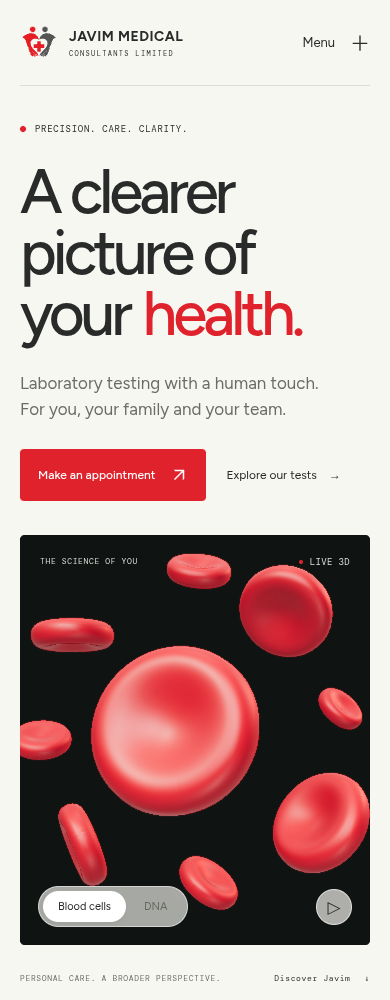
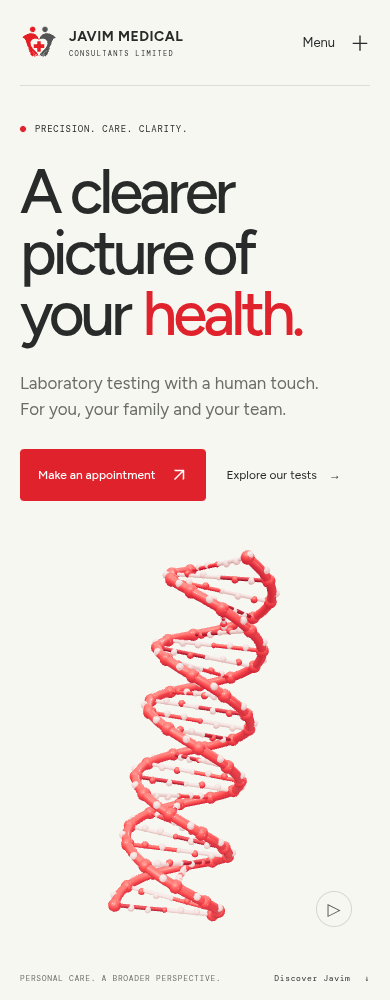
Refine landing DNA animation with transparent background

diff --git a/src/scene.js b/src/scene.js
@@ -1,111 +1,121 @@
 import * as THREE from 'three';
 import { OrbitControls } from 'three/addons/controls/OrbitControls.js';
-import { EffectComposer } from 'three/addons/postprocessing/EffectComposer.js';
-import { RenderPass } from 'three/addons/postprocessing/RenderPass.js';
-import { BokehPass } from 'three/addons/postprocessing/BokehPass.js';
-import { OutputPass } from 'three/addons/postprocessing/OutputPass.js';
 import { RoomEnvironment } from 'three/addons/environments/RoomEnvironment.js';
 
 export function mountScene(container) {
+  const fallback = () => {
+    container.querySelector('.scene-fallback').hidden = false;
+    container.querySelector('canvas')?.setAttribute('hidden', '');
+    document.querySelector('#motion-toggle').hidden = true;
+  };
   let renderer;
   try { renderer = new THREE.WebGLRenderer({antialias:true, alpha:true, powerPreference:'low-power'}); }
-  catch { document.querySelector('.scene-live').textContent='ILLUSTRATION';document.querySelector('.scene-hint').textContent='BLOOD CELL STUDY';document.querySelector('.scene-tabs').hidden=true;document.querySelector('#motion-toggle').hidden=true;return; }
-  container.querySelector('.scene-fallback').hidden=true;
-  renderer.setPixelRatio(Math.min(devicePixelRatio,innerWidth<760?1:1.35));
-  renderer.toneMapping=THREE.ACESFilmicToneMapping;
-  renderer.toneMappingExposure=.95;
-  renderer.setClearColor(0x000000,0);
+  catch { fallback(); return; }
+  renderer.setPixelRatio(Math.min(devicePixelRatio, innerWidth < 760 ? 1 : 1.5));
+  renderer.setClearColor(0xffffff, 0);
+  renderer.toneMapping = THREE.ACESFilmicToneMapping;
+  renderer.toneMappingExposure = 1;
   container.appendChild(renderer.domElement);
-  renderer.domElement.setAttribute('aria-hidden','true');
-  const scene = new THREE.Scene();
-  scene.background=new THREE.Color(0x222725);
-  scene.fog=new THREE.FogExp2(0x222725,.025);
-  const camera = new THREE.PerspectiveCamera(34,1,.1,60);
-  camera.position.set(0,.5,14);
+  renderer.domElement.setAttribute('aria-hidden', 'true');
+  const scene = new THREE.Scene(); // No background or fog: preserve the canvas alpha channel.
+  const camera = new THREE.PerspectiveCamera(34, 1, .1, 60);
+  camera.position.set(0, 0, 15.5);
   const pmrem = new THREE.PMREMGenerator(renderer);
   const room = new RoomEnvironment();
-  const env = pmrem.fromScene(room,.04);scene.environment=env.texture;room.dispose();pmrem.dispose();
-  scene.add(new THREE.HemisphereLight(0xffffff,0x564343,.7));
-  const key=new THREE.DirectionalLight(0xfff9ed,3);key.position.set(-4,6,5);scene.add(key);
-  const rim=new THREE.DirectionalLight(0xff3535,3.5);rim.position.set(4,2,-3);scene.add(rim);
-  const fill=new THREE.DirectionalLight(0xffffff,.8);fill.position.set(2,-3,4);scene.add(fill);
-  const controls=new OrbitControls(camera,renderer.domElement);
-  controls.enableDamping=true;controls.enablePan=false;controls.enableZoom=false;
-  controls.minPolarAngle=Math.PI*.3;controls.maxPolarAngle=Math.PI*.7;
-  controls.rotateSpeed=.4;controls.target.set(0,0,0);
-  renderer.domElement.style.touchAction='pan-y';
-  // A closed, biconcave surface of revolution, rather than a torus.
-  const points=[];
-  const radius=1.12;
-  for(let i=0;i<=50;i++){
-    const r=radius*i/50;const t=r/radius;
-    const h=.48*Math.sqrt(Math.max(0,1-t*t))*(.24+1.8*t*t-.7*t*t*t*t);
-    points.push(new THREE.Vector2(r,h));
+  scene.environment = pmrem.fromScene(room, .04).texture;
+  room.dispose(); pmrem.dispose();
+  scene.add(new THREE.HemisphereLight(0xffffff, 0x8d6261, 1.1));
+  const key = new THREE.DirectionalLight(0xfff8ef, 3); key.position.set(-5, 5, 6); scene.add(key);
+  const fill = new THREE.DirectionalLight(0xffffff, 1.3); fill.position.set(4, -2, 3); scene.add(fill);
+  const rim = new THREE.DirectionalLight(0xffbbbb, 1.6); rim.position.set(2, 3, -4); scene.add(rim);
+  const controls = new OrbitControls(camera, renderer.domElement);
+  controls.enableDamping = true; controls.enablePan = false; controls.enableZoom = false;
+  controls.minPolarAngle = Math.PI * .35; controls.maxPolarAngle = Math.PI * .65;
+  controls.rotateSpeed = .35;
+  renderer.domElement.style.touchAction = 'pan-y';
+
+  // Original illustrative molecular structure, with offset strands and paired bases.
+  // This represents laboratory science, not an advertised genetic-testing service.
+  const surface = document.createElement('canvas'); surface.width = surface.height = 128;
+  const context = surface.getContext('2d'); const pixels = context.createImageData(128, 128);
+  let seed = 17;
+  for (let i = 0; i < pixels.data.length; i += 4) {
+    seed = (seed * 1664525 + 1013904223) >>> 0;
+    const value = 120 + (seed / 4294967296) * 60;
+    pixels.data[i] = pixels.data[i + 1] = pixels.data[i + 2] = value; pixels.data[i + 3] = 255;
   }
-  for(let i=49;i>=0;i--){const r=radius*i/50;const t=r/radius;const h=.48*Math.sqrt(Math.max(0,1-t*t))*(.24+1.8*t*t-.7*t*t*t*t);points.push(new THREE.Vector2(r,-h));}
-  const cellGeometry=new THREE.LatheGeometry(points.reverse(),96);
-  cellGeometry.computeVertexNormals();
-  const textureCanvas=document.createElement('canvas');textureCanvas.width=textureCanvas.height=256;
-  const ctx=textureCanvas.getContext('2d');const img=ctx.createImageData(256,256);
-  // Fine deterministic surface grain for membrane detail.
-  let seed=77;const random=()=>{seed=(seed*1664525+1013904223)>>>0;return seed/4294967296;};
-  for(let i=0;i<img.data.length;i+=4){const n=100+random()*90;img.data[i]=img.data[i+1]=img.data[i+2]=n;img.data[i+3]=255;}ctx.putImageData(img,0,0);
-  const bump=new THREE.CanvasTexture(textureCanvas);bump.wrapS=bump.wrapT=THREE.RepeatWrapping;bump.repeat.set(3,2);
-  const material=new THREE.MeshPhysicalMaterial({color:0xa3091b,metalness:0,roughness:.46,clearcoat:.18,clearcoatRoughness:.4,bumpMap:bump,bumpScale:.06,envMapIntensity:.45});
-  const blood = new THREE.Group();scene.add(blood);
-  const positions=[[-.4,.25,1.5,1.45],[2,2.8,-1,.95],[-2.9,2.4,-2,.87],[2.65,-1.75,-.2,1.02],[-2.5,-2.35,-.8,.85],[.35,-3.75,-3,.75],[.1,4.15,-3,.73],[-3.9,-.1,-3,.68],[3.9,.7,-4,.6]];
-  const cells=positions.map(([x,y,z,size],i)=>{
-    const cell=new THREE.Mesh(cellGeometry,material);cell.position.set(x,y,z);cell.scale.setScalar(size);cell.rotation.set(1.2+i*.37,.2+i*.7,.3+i*.43);blood.add(cell);
-    return {mesh:cell,origin:cell.position.clone(),phase:i*1.9,rotation:cell.rotation.clone()};
-  });
-  const dna=new THREE.Group();dna.visible=false;scene.add(dna);
-  const backbone=new THREE.MeshPhysicalMaterial({color:0xb81724,roughness:.43,metalness:0,clearcoat:.2,envMapIntensity:.55});
-  const pale=new THREE.MeshStandardMaterial({color:0xe9bbb5,roughness:.4});
-  const atomGeometry=new THREE.SphereGeometry(.17,16,12);
-  const turns=2.3,height=8.4;
-  const strands=[[],[]];
-  for(let i=0;i<=150;i++){const y=(i/150-.5)*height;const a=i/150*Math.PI*2*turns;strands[0].push(new THREE.Vector3(Math.cos(a)*1.5,y,Math.sin(a)*1.5));strands[1].push(new THREE.Vector3(-Math.cos(a)*1.5,y,-Math.sin(a)*1.5));}
-  strands.forEach(p=>dna.add(new THREE.Mesh(new THREE.TubeGeometry(new THREE.CatmullRomCurve3(p),180,.14,12,false),backbone)));
-  const bondGeometry=new THREE.CylinderGeometry(.065,.065,1,10);
-  for(let i=0;i<=32;i++){
-    const y=(i/32-.5)*height,a=i/32*Math.PI*2*turns;
-    const start=new THREE.Vector3(Math.cos(a)*1.5,y,Math.sin(a)*1.5),end=new THREE.Vector3(-Math.cos(a)*1.5,y,-Math.sin(a)*1.5);
-    const direction=end.clone().sub(start);
-    const bond=new THREE.Mesh(bondGeometry,i%2?backbone:pale);bond.position.copy(start).add(end).multiplyScalar(.5);bond.scale.y=direction.length();bond.quaternion.setFromUnitVectors(new THREE.Vector3(0,1,0),direction.normalize());dna.add(bond);
-    [start,end].forEach(p=>{const atom=new THREE.Mesh(atomGeometry,backbone);atom.position.copy(p);dna.add(atom);});
+  context.putImageData(pixels, 0, 0);
+  const texture = new THREE.CanvasTexture(surface);
+  texture.wrapS = texture.wrapT = THREE.RepeatWrapping;
+  const red = new THREE.MeshPhysicalMaterial({color:0xc31529,roughness:.52,metalness:0,clearcoat:.12,envMapIntensity:.45,bumpMap:texture,bumpScale:.018});
+  const pale = new THREE.MeshPhysicalMaterial({color:0xe4a5a2,roughness:.58,envMapIntensity:.4});
+  const deep = new THREE.MeshPhysicalMaterial({color:0x8f1826,roughness:.55,envMapIntensity:.35});
+  const dna = new THREE.Group(); scene.add(dna);
+  const height = 8.1, turns = 2.7, radius = 1.2, offset = Math.PI + .32;
+  const point = (t, phase = 0) => new THREE.Vector3(Math.cos(t * turns * Math.PI * 2 + phase) * radius, (t - .5) * height, Math.sin(t * turns * Math.PI * 2 + phase) * radius);
+  for (const phase of [0, offset]) {
+    const points = Array.from({length:241}, (_, i) => point(i / 240, phase));
+    dna.add(new THREE.Mesh(new THREE.TubeGeometry(new THREE.CatmullRomCurve3(points), 240, .105, 14, false), red));
   }
-  dna.rotation.z=-.22;
-  dna.scale.setScalar(.84);
-  const composer=new EffectComposer(renderer);
-  composer.addPass(new RenderPass(scene,camera));
-  const depth=new BokehPass(scene,camera,{focus:12.3,aperture:.00012,maxblur:.009});
-  composer.addPass(depth);composer.addPass(new OutputPass());
-  const media=matchMedia('(prefers-reduced-motion: reduce)');
-  let paused=media.matches,visible=true,elapsed=0,last=performance.now(),frame,dirty=true,lastRender=0;
-  controls.addEventListener('change',()=>{dirty=true;});
-  const motionButton=document.querySelector('#motion-toggle');
-  const syncPause=()=>{motionButton.setAttribute('aria-label',paused?'Play animation':'Pause animation');motionButton.setAttribute('aria-pressed',String(paused));motionButton.innerHTML=`<span aria-hidden="true">${paused?'▷':'Ⅱ'}</span>`;};syncPause();
-  motionButton.addEventListener('click',()=>{paused=!paused;dirty=true;syncPause();});
-  media.addEventListener('change',()=>{paused=media.matches;syncPause();});
-  document.querySelectorAll('[data-scene]').forEach(b=>b.addEventListener('click',()=>{
-    const isBlood=b.dataset.scene==='blood';blood.visible=isBlood;dna.visible=!isBlood;depth.uniforms.focus.value=isBlood?12.3:14;
-    document.querySelectorAll('[data-scene]').forEach(t=>{t.classList.toggle('active',t===b);t.setAttribute('aria-pressed',String(t===b));});
-    controls.reset();dirty=true;
-  }));
-  const resize=()=>{const {width,height}=container.getBoundingClientRect();if(!width||!height)return;renderer.setSize(width,height);composer.setSize(width,height);camera.aspect=width/height;camera.updateProjectionMatrix();dirty=true;};
-  new ResizeObserver(resize).observe(container);resize();
-  new IntersectionObserver(entries=>{visible=entries[0].isIntersecting;}).observe(container);
-  renderer.domElement.addEventListener('webglcontextlost',e=>{e.preventDefault();cancelAnimationFrame(frame);container.querySelector('.scene-fallback').hidden=false;renderer.domElement.hidden=true;document.querySelector('.scene-live').textContent='ILLUSTRATION';});
-  const animate=now=>{
-    frame=requestAnimationFrame(animate);
-    const dt=Math.min((now-last)/1000,.05);last=now;
-    if(!visible||document.hidden)return;
-    const moved=controls.update();
-    if(paused&&!dirty&&!moved)return;
-    if(!paused)elapsed+=dt;
-    if(now-lastRender<1000/30)return;
-    lastRender=now;dirty=false;
-    if(!paused){cells.forEach(c=>{c.mesh.position.y=c.origin.y+Math.sin(elapsed*.27+c.phase)*.32;c.mesh.position.x=c.origin.x+Math.sin(elapsed*.15+c.phase)*.15;c.mesh.rotation.x=c.rotation.x+elapsed*.09;c.mesh.rotation.z=c.rotation.z+Math.sin(elapsed*.21+c.phase)*.2;});dna.rotation.y=elapsed*.16;}
-    composer.render();
-  };animate(performance.now());
+  const atomGeometry = new THREE.SphereGeometry(1, 16, 12);
+  const bondGeometry = new THREE.CylinderGeometry(1, 1, 1, 10);
+  const atom = (position, scale, material) => {
+    const mesh = new THREE.Mesh(atomGeometry, material); mesh.position.copy(position); mesh.scale.setScalar(scale); dna.add(mesh);
+  };
+  const bond = (start, end, thickness, material) => {
+    const vector = end.clone().sub(start), mesh = new THREE.Mesh(bondGeometry, material);
+    mesh.position.copy(start).add(end).multiplyScalar(.5);
+    mesh.scale.set(thickness, vector.length(), thickness);
+    mesh.quaternion.setFromUnitVectors(new THREE.Vector3(0,1,0), vector.normalize()); dna.add(mesh);
+  };
+  for (let i = 0; i <= 27; i++) {
+    const t = i / 27, left = point(t), right = point(t, offset);
+    atom(left, .15, red); atom(right, .15, red);
+    const middle = left.clone().lerp(right, .5);
+    bond(left, middle, .045, i % 2 ? red : pale);
+    bond(middle, right, .045, i % 2 ? pale : deep);
+    for (let j = 1; j < 6; j++) {
+      const p = left.clone().lerp(right, j / 6);
+      p.y += Math.sin(j * Math.PI / 3) * .035;
+      atom(p, j === 3 ? .065 : .082, (i + j) % 3 ? pale : red);
+    }
+    for (const phase of [0, offset]) {
+      const p = point(Math.min(1, t + .014), phase);
+      const side = new THREE.Vector3(p.x * 1.07, p.y + .035, p.z * 1.07);
+      atom(side, .085, pale); bond(p, side, .035, red);
+    }
+  }
+  dna.rotation.set(.08, .4, -.18);
+  const media = matchMedia('(prefers-reduced-motion: reduce)');
+  let paused = media.matches, visible = true, elapsed = 0, last = performance.now(), lastRender = 0, dirty = true, frame;
+  const button = document.querySelector('#motion-toggle');
+  const sync = () => {
+    button.setAttribute('aria-label', paused ? 'Play animation' : 'Pause animation');
+    button.setAttribute('aria-pressed', String(paused));
+    button.innerHTML = `<span aria-hidden="true">${paused ? '▷' : 'Ⅱ'}</span>`;
+  };
+  sync();
+  button.addEventListener('click', () => { paused = !paused; dirty = true; sync(); });
+  media.addEventListener('change', () => { paused = media.matches; dirty = true; sync(); });
+  controls.addEventListener('change', () => { dirty = true; });
+  const resize = () => {
+    const {width, height} = container.getBoundingClientRect();
+    if (!width || !height) return;
+    renderer.setSize(width, height); camera.aspect = width / height; camera.updateProjectionMatrix(); dirty = true;
+  };
+  new ResizeObserver(resize).observe(container); resize();
+  new IntersectionObserver(entries => { visible = entries[0].isIntersecting; dirty = true; }).observe(container);
+  renderer.domElement.addEventListener('webglcontextlost', e => { e.preventDefault(); cancelAnimationFrame(frame); fallback(); });
+  const animate = now => {
+    frame = requestAnimationFrame(animate);
+    const dt = Math.min((now - last) / 1000, .05); last = now;
+    if (!visible || document.hidden) return;
+    const moved = controls.update();
+    if (!paused) elapsed += dt;
+    if ((paused && !dirty && !moved) || now - lastRender < 1000 / 30) return;
+    if (!paused) { dna.rotation.y = .4 + elapsed * .065; dna.position.y = Math.sin(elapsed * .2) * .07; }
+    lastRender = now; dirty = false; renderer.render(scene, camera);
+    container.querySelector('.scene-fallback').hidden = true;
+  };
+  animate(performance.now());
 }

diff --git a/src/main.js b/src/main.js
@@ -18,7 +18,7 @@ function testRow(t) { return `<div class="test-row" data-test-name="${t.name}"><
 const header = `<a class="skip-link" href="#main">Skip to content</a><header class="header wrap">${brand}<button class="menu-toggle" aria-label="Open navigation" aria-expanded="false" aria-controls="navigation">Menu <span aria-hidden="true">＋</span></button><nav id="navigation" aria-label="Main navigation"><a href="/services" ${isServices?'aria-current="page"':''}>Services</a><a href="${homeAnchor('about')}">The lab</a><a href="${homeAnchor('corporate')}">For business</a><a href="${homeAnchor('contact')}">Contact</a><button class="button button-small" data-book>Book a visit ${arrow}</button></nav></header>`;
 const footer = `<footer class="footer wrap"><div class="footer-top">${brand}<p>Thoughtful care.<br>Clearer answers.</p>${waLink('Let’s talk')}</div><div class="footer-bottom"><span>© ${new Date().getFullYear()} Javim Medical Consultants Limited</span><a href="/privacy">Privacy</a><span>Nairobi, Kenya <span class="red-dot"></span></span></div></footer>`;
 const booking = `<dialog id="booking-dialog" aria-labelledby="booking-title" class="booking-dialog"><div class="dialog-head"><span class="eyebrow">YOUR NEXT STEP</span><button class="close-dialog" aria-label="Close booking">×</button></div><h2 id="booking-title">Make time<br>for your health.</h2><p class="muted">Choose what you need. We’ll take it from here.</p><div class="booking-options">${bookingTypes.map((b,i)=>{const url=safeCalUrl(b.calUrl);return `<a href="${url || whatsapp(b.message)}" target="_blank" rel="noopener noreferrer"><span class="index">0${i+1}</span><div><h3>${b.name}</h3><p>${b.description}</p><span class="alias">${url?'CHOOSE A TIME ON CAL.COM':'ARRANGE VIA WHATSAPP'}</span></div>${arrow}</a>`}).join('')}</div><p class="booking-note">Pricing, preparation and collection arrangements are confirmed by our team. Please avoid sending sensitive medical information in your initial enquiry.</p></dialog>`;
-const hero = `<section class="hero wrap" aria-labelledby="hero-title"><div class="hero-copy"><div class="eyebrow"><span class="red-dot"></span> PRECISION. CARE. CLARITY.</div><h1 id="hero-title">A clearer<br>picture of<br>your <em>health.</em></h1><p>Laboratory testing with a human touch.<br>For you, your family and your team.</p><div class="hero-actions"><button class="button" data-book>Make an appointment ${arrow}</button><a class="text-link" href="/services">Explore our tests <span aria-hidden="true">→</span></a></div></div><div class="hero-visual"><div id="medical-scene" role="group" aria-label="Interactive three-dimensional blood-cell illustration"><div class="scene-fallback"><div class="fallback-cell"></div><div class="fallback-cell"></div><div class="fallback-cell"></div></div></div><div class="scene-top"><span class="eyebrow">THE SCIENCE OF YOU</span><span class="scene-live"><span class="red-dot"></span> LIVE 3D</span></div><div class="scene-bottom"><div class="scene-tabs" role="group" aria-label="Choose medical visualization"><button class="active" data-scene="blood" aria-pressed="true">Blood cells</button><button data-scene="dna" aria-pressed="false">DNA</button></div><button id="motion-toggle" class="motion-toggle" aria-label="Pause animation" aria-pressed="false"><span aria-hidden="true">Ⅱ</span></button></div><span class="scene-hint">DRAG TO EXPLORE</span></div><div class="hero-foot"><span>PERSONAL CARE. A BROADER PERSPECTIVE.</span><a href="#services">Discover Javim <span aria-hidden="true">↓</span></a></div></section>`;
+const hero = `<section class="hero wrap" aria-labelledby="hero-title"><div class="hero-copy"><div class="eyebrow"><span class="red-dot"></span> PRECISION. CARE. CLARITY.</div><h1 id="hero-title">A clearer<br>picture of<br>your <em>health.</em></h1><p>Laboratory testing with a human touch.<br>For you, your family and your team.</p><div class="hero-actions"><button class="button" data-book>Make an appointment ${arrow}</button><a class="text-link" href="/services">Explore our tests <span aria-hidden="true">→</span></a></div></div><div class="hero-visual"><div id="medical-scene" role="group" aria-label="Interactive DNA helix illustrating laboratory science"><div class="scene-fallback"><svg xmlns="http://www.w3.org/2000/svg" viewBox="0 0 320 500" fill="none" aria-hidden="true"><g stroke="#df222b" stroke-width="10" stroke-linecap="round"><path d="M110 30c160 70-60 120 100 190s-60 120 0 250M210 30C50 100 270 150 110 220s60 120 0 250"/></g><g stroke="#d78689" stroke-width="3"><path d="m110 30 100 0M150 60h20M135 95h50M100 130h120M130 165h60M150 195h20M110 225h100M140 260h40M150 295h20M100 330h120M130 365h60M150 400h20M110 435h100M110 470h100"/></g></svg></div></div><div class="scene-bottom"><button id="motion-toggle" class="motion-toggle" aria-label="Pause animation" aria-pressed="false"><span aria-hidden="true">Ⅱ</span></button></div></div><div class="hero-foot"><span>PERSONAL CARE. A BROADER PERSPECTIVE.</span><a href="#services">Discover Javim <span aria-hidden="true">↓</span></a></div></section>`;
 const about = `<section id="about" class="about-section wrap section"><div class="eyebrow">01 / THE JAVIM APPROACH</div><div class="about-grid"><h2>Small details.<br>Meaningful answers.</h2><div><p class="large-copy">Behind every sample is a person.<br>That’s where our work begins.</p><p class="muted">Javim Medical Consultants Limited brings together diagnostic testing and personal service in Nairobi. From a routine check to a more specific investigation, our team helps you understand the next step.</p><details class="quiet-details"><summary>Get to know the lab <span aria-hidden="true">+</span></summary><div><p>Our services span haematology, clinical chemistry, immunoassays and hormones, serology, microbiology, parasitology, and histology and cytology.</p><p>Whether you live locally or are visiting Kenya, speak directly with our team about test availability, sample requirements, pricing and turnaround times.</p></div></details></div></div><div class="principles"><div><span class="index">01</span><h3>Care that listens.</h3><p>A direct conversation with our team.</p></div><div><span class="index">02</span><h3>Testing made simpler.</h3><p>Guidance from enquiry to your visit.</p></div><div><span class="index">03</span><h3>Clarity at every step.</h3><p>Preparation, pricing and timing explained.</p></div></div></section>`;
 const serviceSection = `<section id="services" class="services-section section wrap"><div class="section-heading"><div><span class="eyebrow">02 / OUR SERVICES</span><h2>A world of insight.<br>A simple place to start.</h2></div><p class="muted">Seven areas of diagnostic testing.<br>Open a category to find what you need.</p></div><div class="department-list">${departmentRows()}</div><div class="section-tail"><span class="muted">Already know the test you need?</span><a class="text-link" href="/services">Search the full catalogue <span aria-hidden="true">→</span></a></div></section>`;
 const anatomySVG = `<svg viewBox="0 0 320 580" role="group" aria-label="Illustrated human body with highlighted organs"><defs><linearGradient id="body-fill" x1="0" y1="0" x2="1" y2="1"><stop stop-color="#f4f4ef"/><stop offset=".5" stop-color="#d7d8d2"/><stop offset="1" stop-color="#f6f6f0"/></linearGradient><radialGradient id="organ"><stop stop-color="#f36860"/><stop offset="1" stop-color="#c42028"/></radialGradient></defs><g fill="url(#body-fill)" stroke="#babdb5" stroke-width="1"><path d="M142 79c-8-8-15-18-14-37 1-20 12-30 32-30s31 10 32 30c1 19-6 29-14 37l-1 18 30 10c15 5 22 18 26 39l16 95 12 60-9 11-12-5-14-64-17-59-5 105 4 56-16 105-8 64-10 45 4 22h-30l-2-20 8-41 4-65 5-94-8-41h-18l-8 41 5 94 4 65 8 41-2 20h-30l4-22-10-45-8-64-16-105 4-56-5-105-17 59-14 64-12 5-9-11 12-60 16-95c4-21 11-34 26-39l30-10Z"/></g><g fill="none" stroke="#adb1a8" stroke-width="1.2" opacity=".45"><path d="M160 101v198M132 121c-20 21-27 56-16 78M188 121c20 21 27 56 16 78M124 153q36 18 72 0M120 165q40 20 80 0M119 179q41 19 82 0M122 193q38 17 76 0M125 208q35 14 70 0M135 298l-14 51M185 298l14 51M119 358l11 102M201 358l-11 102"/></g><g class="anatomy-organ" data-organ="blood" fill="url(#organ)"><path d="M160 145c-8-10-15-7-19 0-9 13-4 33 12 41 13 11 23-1 23-17 1-13-3-22-16-24Z"/><g fill="none" stroke="#d32b31" stroke-width="2.5"><path d="M161 184v104m0-79-29 17-9 77m38-87 29 13 9 74M158 149v-30m0 24-38-16-14 61m56-45 38-16 14 61M161 283l-28 59-1 84m29-143 28 59 1 84"/></g></g><g class="anatomy-organ" data-organ="thyroid" fill="url(#organ)"><path d="M156 111c-17-14-16 14-2 10h12c14 4 15-24-2-10Z"/></g><g class="anatomy-organ" data-organ="liver" fill="url(#organ)"><path d="M126 207c8-14 39-12 59-1-9 6-16 12-23 14-17 5-30 4-36-13Z"/></g><g class="anatomy-organ" data-organ="kidneys" fill="url(#organ)"><path d="M136 231c-15-7-21 21-11 29 7 6 16-3 12-9-9-2 1-14-1-20ZM184 231c15-7 21 21 11 29-7 6-16-3-12-9 9-2-1-14 1-20Z"/></g><g class="anatomy-organ" data-organ="metabolic" fill="none" stroke="#d52a32" stroke-width="4"><path d="M141 273q-15-9-13 5t27 6q24-17 29-3t-22 10q-34-1-20 15t38-3"/></g></svg>`;
@@ -37,11 +37,8 @@ menu.addEventListener('click',()=>{const open=menu.getAttribute('aria-expanded')
 document.querySelectorAll('#navigation a, #navigation [data-book]').forEach(a=>a.addEventListener('click',()=>{menu.setAttribute('aria-expanded','false');document.querySelector('#navigation').classList.remove('open');}));
 if (!isServices && !isPrivacy) {
   import('./scene.js').then(({mountScene}) => mountScene(document.querySelector('#medical-scene'))).catch(() => {
-    document.querySelector('.scene-live').textContent = 'ILLUSTRATION';
     document.querySelector('.scene-fallback').hidden = false;
     document.querySelector('#medical-scene canvas')?.setAttribute('hidden', '');
-    document.querySelector('.scene-hint').textContent = 'BLOOD CELL STUDY';
-    document.querySelector('.scene-tabs').hidden = true;
     document.querySelector('#motion-toggle').hidden = true;
   });
   const setSystem = id => {

diff --git a/tests/browser/site.spec.js b/tests/browser/site.spec.js
@@ -4,8 +4,11 @@ test('desktop scene, booking modal, anatomy and catalogue work',async({page})=>{
   await page.emulateMedia({reducedMotion:'reduce'});
   await page.goto('/');
   await expect(page.locator('#medical-scene canvas')).toBeVisible({timeout:20000});
-  await page.locator('[data-scene="dna"]').click();
-  await expect(page.locator('[data-scene="dna"]')).toHaveAttribute('aria-pressed','true');
+  await expect(page.locator('[data-scene]')).toHaveCount(0);
+  expect(await page.locator('#medical-scene canvas').evaluate(canvas => {
+    const gl = canvas.getContext('webgl2');
+    return gl.getContextAttributes().alpha && gl.getParameter(gl.COLOR_CLEAR_VALUE)[3] === 0;
+  })).toBe(true);
   await expect(page.locator('#motion-toggle')).toHaveAttribute('aria-label','Play animation');
   await page.locator('#motion-toggle').click();
   await expect(page.locator('#motion-toggle')).toHaveAttribute('aria-label','Pause animation');
@@ -59,7 +62,7 @@ test('without WebGL, a static illustration and all booking controls remain usabl
     HTMLCanvasElement.prototype.getContext=function(type,...args){return /webgl/.test(type)?null:original.call(this,type,...args);};
   });
   await page.goto('/');
-  await expect(page.locator('.scene-live')).toHaveText('ILLUSTRATION',{timeout:20000});
+  await expect(page.locator('#motion-toggle')).toBeHidden({timeout:20000});
   await expect(page.locator('.scene-fallback')).toBeVisible();
   await page.getByRole('button',{name:'Make an appointment'}).click();
   await expect(page.locator('#booking-dialog')).toBeVisible();

diff --git a/src/style.css b/src/style.css
@@ -9,3 +9,9 @@
 :root{--muted:#656960}.index{color:#697064}.hero-foot{color:#6b6f66}.search-bar>div:focus-within{outline:2px solid var(--red);outline-offset:3px}
 [hidden]{display:none!important}
 .header nav>a:hover,.header nav>a[aria-current],.text-link:hover{color:#be1d25}
+/* The DNA canvas composites directly onto the page; no opaque panel. */
+.hero-visual{background:transparent;border-radius:0;overflow:hidden}
+.scene-bottom{justify-content:flex-end}
+.motion-toggle{border:1px solid #d5d8ce;background:#f7f7f2;color:#555b51}
+.scene-fallback{display:flex;align-items:center;justify-content:center}
+.scene-fallback svg{height:90%;width:auto;max-width:90%;opacity:.85}

diff --git a/README.md b/README.md
@@ -4,11 +4,11 @@ A minimalist, responsive laboratory website built with Vite, vanilla JavaScript 
 
 ## Current design
 
-Screenshots of the current implementation. The live blood-cell and DNA scenes are paused in these captures.
+Screenshots of the current implementation. The landing-page DNA scene is paused in these captures. Its transparent canvas lets the light page background show through.
 
 ### Desktop homepage
 
-![Desktop homepage with animated blood-cell scene](docs/screenshots/desktop.png)
+![Desktop homepage with transparent DNA scene](docs/screenshots/desktop.png)
 
 [View the complete homepage](docs/screenshots/homepage.png)
 
@@ -60,7 +60,7 @@ Once public Cal.com event links exist, copy `.env.example` to `.env.local` and f
 
 The supplied logo images were visible in the conversation but were not available as local downloadable files, and retrieval from the former website was blocked. The current mark is a hand-recreated SVG based on the supplied artwork, not the original vector. Replace `public/assets/javim-mark.svg` and `favicon.svg` with approved originals for launch.
 
-Blood cells use biconcave geometry, material grain and directional/environment lighting. DNA uses a rotating geometric helix. Both support pointer/touch rotation, a pause control, reduced-motion preferences, off-screen suspension and a static fallback when WebGL is unavailable. These are original illustrative 3D scenes, not photorealistic stock footage or scientifically exact simulations.
+The landing-page DNA uses offset helical strands, paired bases, small molecular details and subtle surface grain with soft lighting. The WebGL canvas preserves alpha, has no opaque scene background or fog, and composites directly over the light page. Its slow rotation supports pointer/touch exploration, a pause control, reduced-motion preferences, off-screen suspension and a static DNA fallback. This is an original scientific illustration, not a scientifically exact molecular model or a claim that Javim offers genetic testing. The former blood-cell/DNA switcher and technical labels have been removed from the hero.
 
 The anatomy explorer is an original stylized SVG with clickable and keyboard-selectable organs; it is not realistic 3D anatomy. Related tests provide service navigation, not diagnostic recommendations. No other brands' or watermarked stock imagery is included.
 
